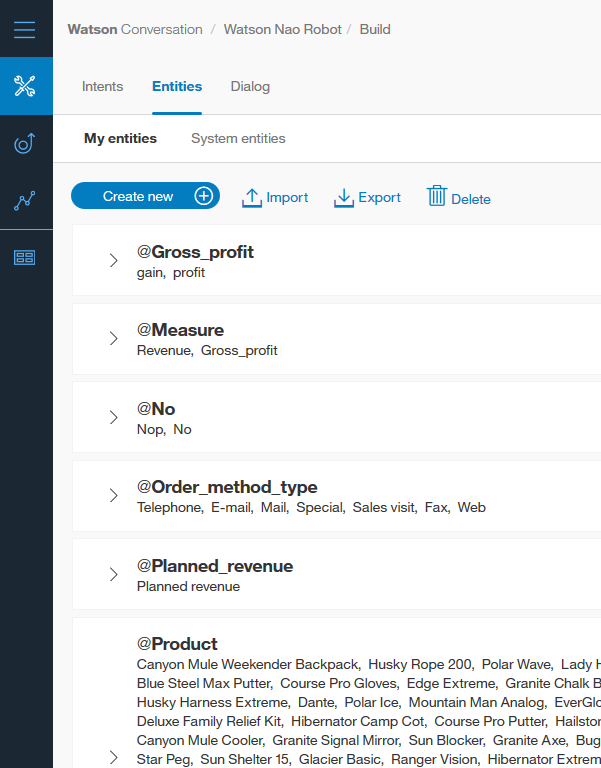
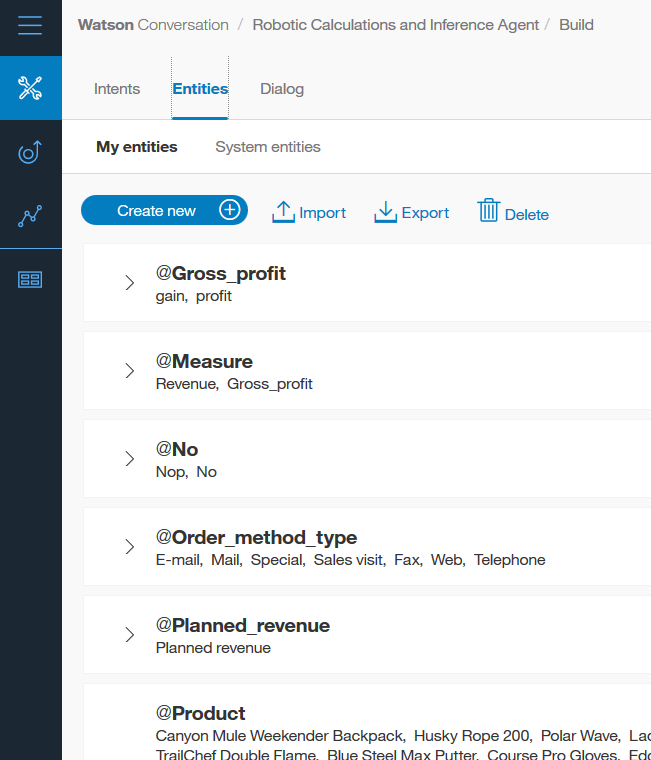
system entity image corrected

diff --git a/README.md b/README.md
@@ -58,8 +58,8 @@ described in detail below.
 
 1. [Sign up for IBM Bluemix](#1-sign-up-for-IBM-Bluemix)
 1. [Create Bluemix services](#2-create-bluemix-services)
-1. [Configure Watson Conversation Application](#3-configure-watson-conversation-application)
-1. [Import the Node-RED flow](#4-import-the-node-red-flow)
+1. [Configure and Manage the Watson Conversation Application](#3-Configure-and-manage-the-watson-conversation-application)
+1. [Import and Deploy the Node-RED flow](#4-import-and-deploy-the-node-rED-flow)
 1. [Note the websocket URL](#5-note-the-websocket-url)
 1. [Sign up for Data Science Experience](#6-sign-up-for-data-science-experience)
 1. [Create the notebook](#7-create-the-notebook)
@@ -96,9 +96,9 @@ Create the following Bluemix service by following the link to use the Bluemix UI
   ![](doc/source/images/conversation_credantial_note_down.png)
 
 
-  * On the same page, on the left side now Click on `Manage` icon then on the right side click on `Launch tool` to launch the Conversation Workspaces. 
+  * On the same page, on the left side now click on `Manage` icon then on the right side click on `Launch tool` to launch the Conversation Workspaces. 
 
-## 3. Configure Watson Conversation Application
+## 3. Configure and Manage the Watson Conversation Application
 
 Launch the **Watson Conversation** tool. Use the **import** icon button on the right
 
@@ -120,7 +120,7 @@ after clicking on the View details you will be able to note down the **workspace
   <img width="350" height="250" src="doc/source/images/conversation_workspace_id.png">
 </p>
 
-*Optionally*, to view the conversation Intents, Entities and Dialog select the workspace and choose the **Intents** tab, **Entities** tab and **Dialog** tab, here it is represented through snippets respectively:
+To view the conversation Intents, Entities and Dialog select the workspace and choose the **Intents** tab, **Entities** tab and **Dialog** tab, here it is represented through snippets respectively:
 
 <p align="center">
   <img width="400" height="650" src="doc/source/images/conversation_intents.png" title="Intents">
@@ -130,7 +130,11 @@ after clicking on the View details you will be able to note down the **workspace
 
 ![](doc/source/images/conversation_dialog.png)
 
-## 4. Import the Node-RED flow
+Please note that while managing the `Entities`, click on `System entities' and `swiched on` two entities, named `@sys-date` and `@sys-number`. These are inbuilt entities. 
+
+![](doc/source/images/conversation_system_enities.png)
+
+## 4. Import and Deploy the Node-RED flow
 
 The flow json for Node-RED can be found under `node-red-flow` directory. 
 * Download the `Robotic_AI_Agent_workflow.json`
